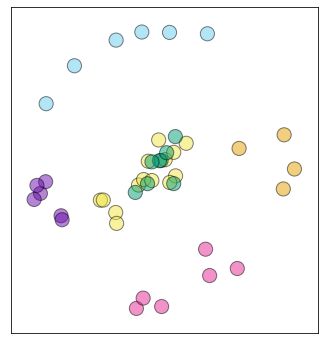
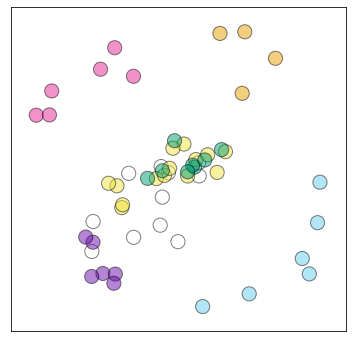
make MDS plot with all day 100 samples

diff --git a/results/summary/mds_escape_profiles.md b/results/summary/mds_escape_profiles.md
@@ -340,6 +340,19 @@ for name, specs in mds_config.items():
 
 
     
+    Making plot 100vs250ug_conv_day119, which has the following antibodies:
+    ['M01-day-119_80', 'M02-day-119_200', 'M03-day-119_200', 'M04-day-119_200', 'M05-day-119_500', 'M06-day-119_80', 'M07-day-119_200', 'M08-day-119_200', 'M09-day-119_500', 'M10-day-119_200', 'M11-day-119_200', 'M12-day-119_200', 'M13-day-119_200', 'M14-day-119_500', 'M16-day-119_1250', 'M17-day-119_200', 'M18-day-119_80', 'M19-day-119_200', 'M20-day-119_200', 'M21-day-119_200', 'M22-day-119_200', 'M23-day-119_200', '23_d120_500', '1C_d113_200', '24C_d104_200', '6C_d76_500', '22C_d104_200', '25C_d115_80', '25_d94_200', '12C_d152_80', '23C_d102_80', '13_d121_1250', '7C_d103_200', 'CB6_400', 'LY-CoV555_400', 'REGN10933_400', 'REGN10987_400', 'CR3022_400', 'COV2-2677_400', 'COV2-2082_400', 'COV2-2094_400', 'COV2-2165_400', 'COV2-2832_400', 'COV2-2479_400', 'COV2-2050_400', 'COV2-2096_400', 'COV2-2499_400', 'C105_400', 'C144_400', 'C002_400', 'C121_400', 'C135_400', 'C110_400', 'COV2-2196_400', 'COV2-2130_400']
+    Using condition-level color scheme in column color_time of data/mds_colors_vax_conv.csv
+    Saving plot to results/multidimensional_scaling/100vs250ug_conv_day119_mds.pdf
+
+
+
+    
+![png](mds_escape_profiles_files/mds_escape_profiles_18_5.png)
+    
+
+
+    
     Making plot 100vs250ug_day119, which has the following antibodies:
     ['M01-day-119_80', 'M02-day-119_200', 'M03-day-119_200', 'M04-day-119_200', 'M05-day-119_500', 'M06-day-119_80', 'M07-day-119_200', 'M08-day-119_200', 'M09-day-119_500', 'M10-day-119_200', 'M11-day-119_200', 'M12-day-119_200', 'M13-day-119_200', 'M14-day-119_500', 'M16-day-119_1250', 'M17-day-119_200', 'M18-day-119_80', 'M19-day-119_200', 'M20-day-119_200', 'M21-day-119_200', 'M22-day-119_200', 'M23-day-119_200', 'CB6_400', 'LY-CoV555_400', 'REGN10933_400', 'REGN10987_400', 'CR3022_400', 'COV2-2677_400', 'COV2-2082_400', 'COV2-2094_400', 'COV2-2165_400', 'COV2-2832_400', 'COV2-2479_400', 'COV2-2050_400', 'COV2-2096_400', 'COV2-2499_400', 'C105_400', 'C144_400', 'C002_400', 'C121_400', 'C135_400', 'C110_400', 'COV2-2196_400', 'COV2-2130_400']
     Using condition-level color scheme in column color_time of data/mds_colors_vax_conv.csv
@@ -348,6 +361,6 @@ for name, specs in mds_config.items():
 
 
     
-![png](mds_escape_profiles_files/mds_escape_profiles_18_5.png)
+![png](mds_escape_profiles_files/mds_escape_profiles_18_7.png)
     
 
